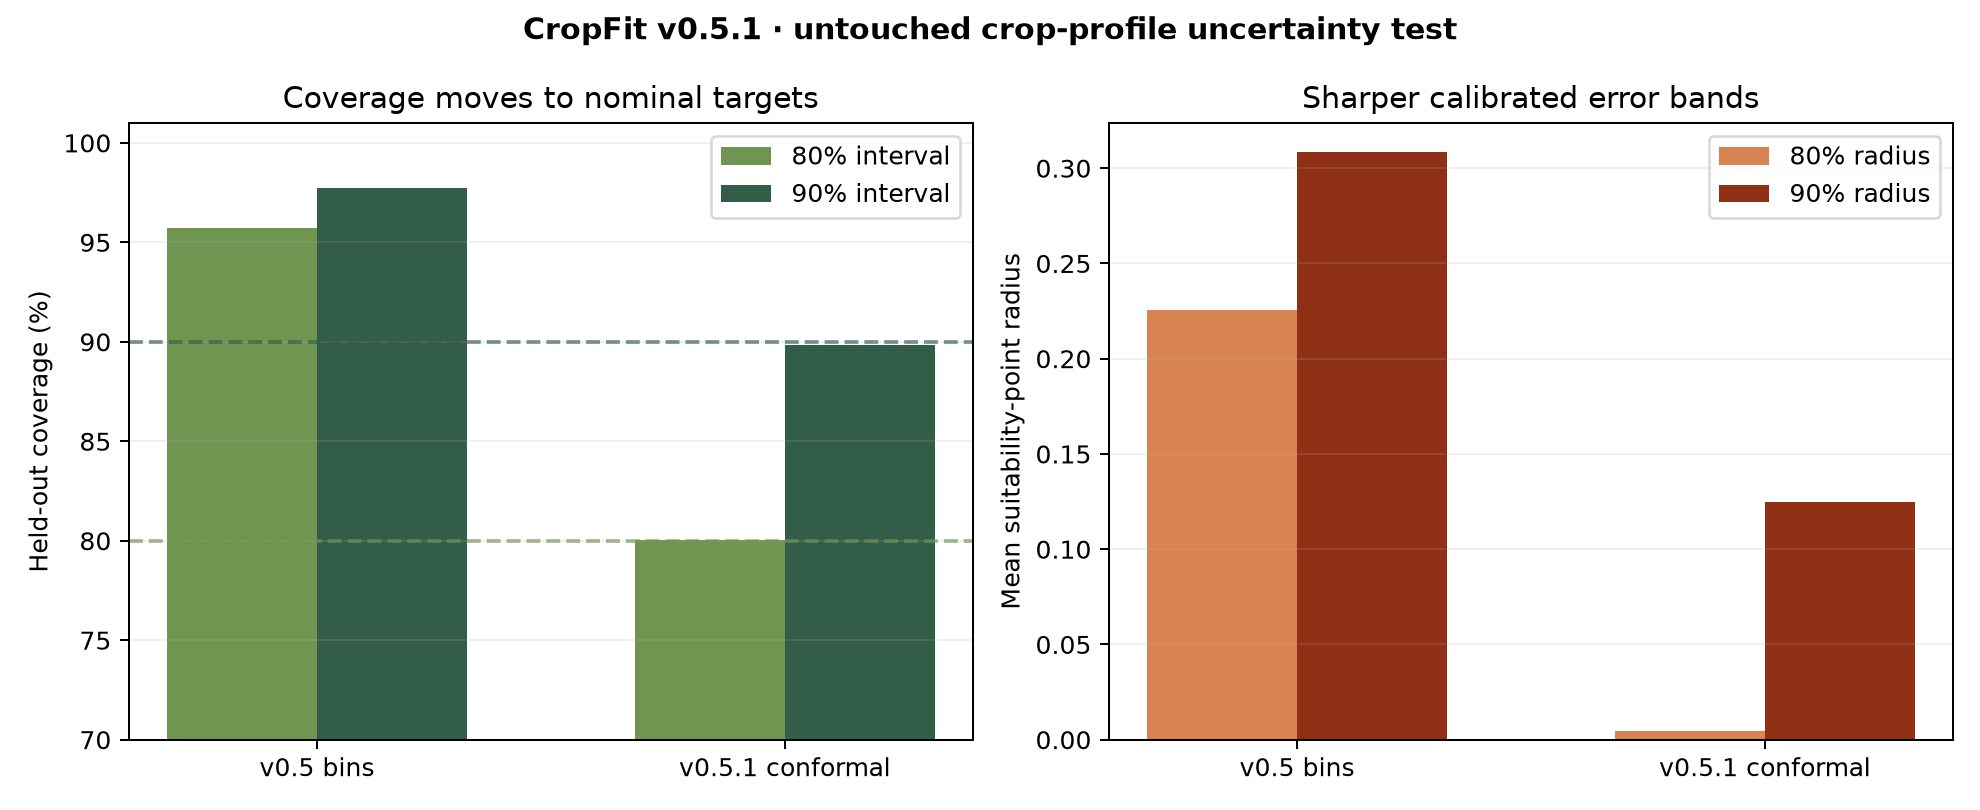
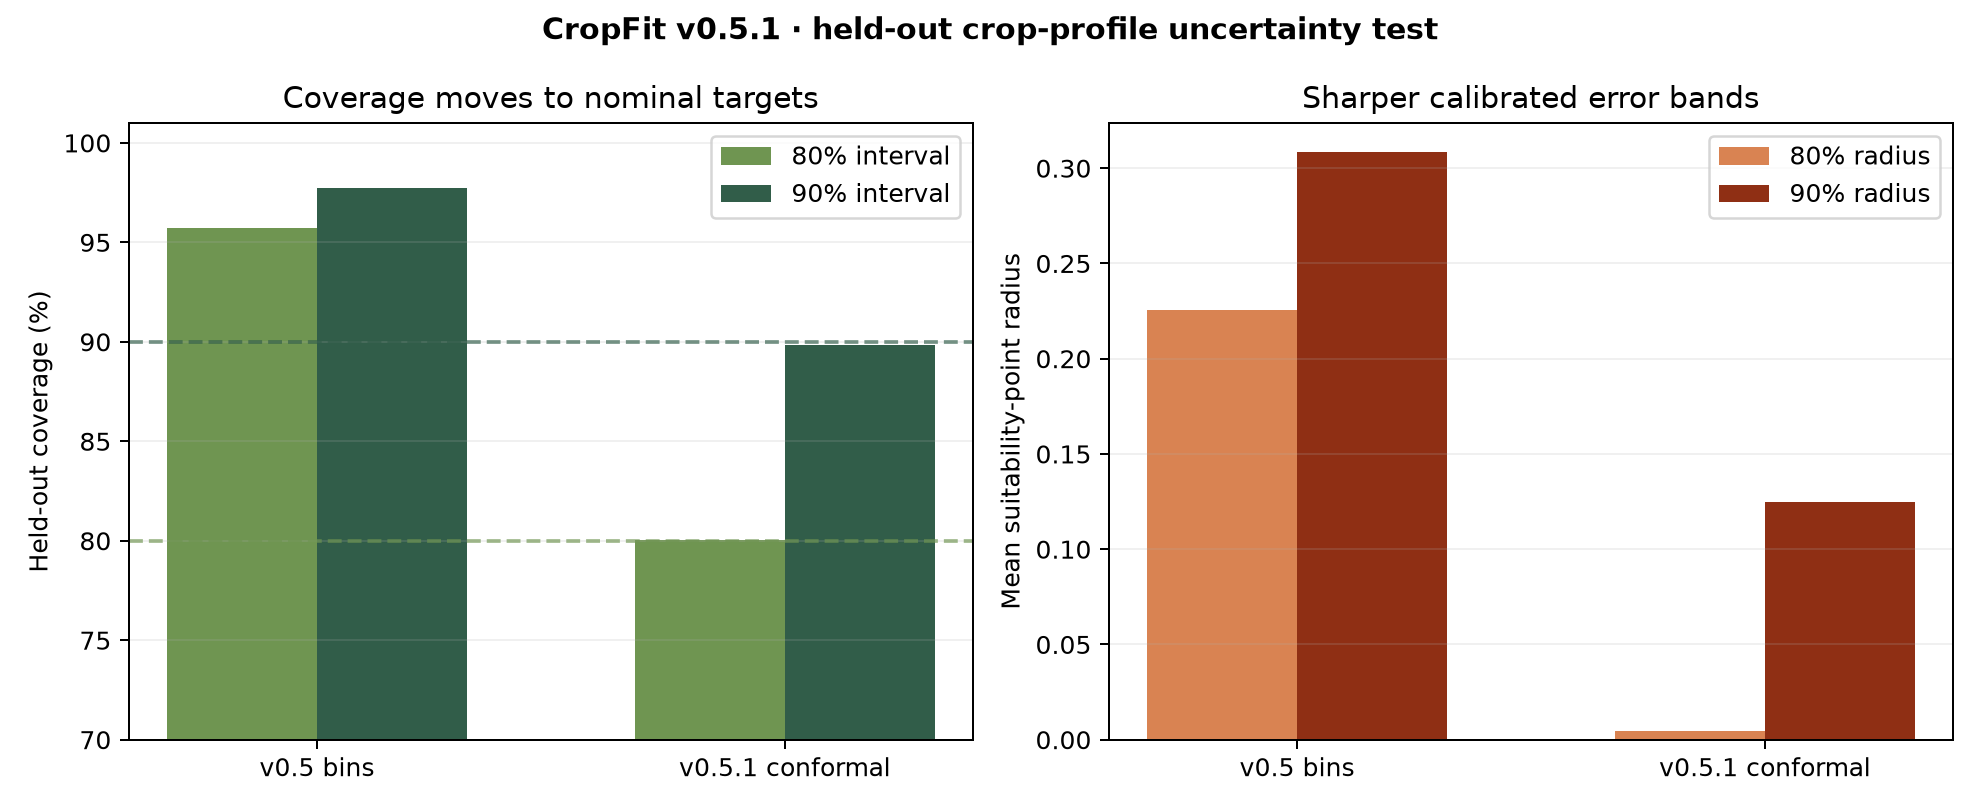
test(cropfit): stress calibration seeds

Changed region(s): [[0.2465, 0.0, 0.7394, 0.0617]]

diff --git a/machine-learning/cropfit/uncertainty_validation.py b/machine-learning/cropfit/uncertainty_validation.py
@@ -7,16 +7,18 @@ from pathlib import Path
 import joblib
 import matplotlib.pyplot as plt
 import numpy as np
+from sklearn.ensemble import RandomForestRegressor
 from sklearn.model_selection import GroupShuffleSplit
 
 from .profiles import load_profiles
-from .training import generate_examples
+from .training import TREE_STD_FLOOR, conformal_quantile, generate_examples
 
 
 LEGACY_BINS = (
     (0, .01, 0.0, 0.0), (.01, 2, .5355, .7941), (2, 5, 1.574, 2.0919),
     (5, 10, 3.8241, 5.0367),
 )
+ROBUSTNESS_SEEDS = list(range(20261201, 20261206))
 
 
 def radii(metadata: dict, tree_std: np.ndarray) -> tuple[np.ndarray, np.ndarray]:
@@ -49,17 +51,24 @@ def api_round(values: np.ndarray) -> np.ndarray:
     return np.ceil(values * 1000) / 1000
 
 
+def split_indices(x: np.ndarray, y: np.ndarray, groups: np.ndarray, seed: int) -> tuple[np.ndarray, np.ndarray, np.ndarray]:
+    train_validation, test = next(GroupShuffleSplit(n_splits=1, test_size=.2, random_state=seed).split(x, y, groups))
+    inner_groups = groups[train_validation]
+    inner_train, inner_validation = next(GroupShuffleSplit(n_splits=1, test_size=.15, random_state=seed + 1).split(x[train_validation], y[train_validation], inner_groups))
+    return train_validation[inner_train], train_validation[inner_validation], test
+
+
+def errors_and_std(model, x: np.ndarray, y: np.ndarray, indices: np.ndarray) -> tuple[np.ndarray, np.ndarray]:
+    trees = np.asarray([tree.predict(x[indices]) for tree in model.estimators_])
+    return np.abs(trees.mean(axis=0) - y[indices]), trees.std(axis=0)
+
+
 def evaluate(artifact: Path, profiles_path: Path, samples_per_crop: int, seed: int) -> dict:
     bundle = joblib.load(artifact)
     model, metadata = bundle["model"], bundle["metadata"]
     x, y, groups = generate_examples(load_profiles(profiles_path), samples_per_crop, seed)
-    train_validation, test = next(GroupShuffleSplit(n_splits=1, test_size=.2, random_state=seed).split(x, y, groups))
-    inner_groups = groups[train_validation]
-    _, inner_validation = next(GroupShuffleSplit(n_splits=1, test_size=.15, random_state=seed + 1).split(x[train_validation], y[train_validation], inner_groups))
-    validation = train_validation[inner_validation]
-    trees = np.asarray([tree.predict(x[test]) for tree in model.estimators_])
-    errors = np.abs(trees.mean(axis=0) - y[test])
-    tree_std = trees.std(axis=0)
+    _, validation, test = split_indices(x, y, groups, seed)
+    errors, tree_std = errors_and_std(model, x, y, test)
     candidate_radii = radii(metadata, tree_std)
     unrounded_candidate = metrics(errors, *candidate_radii)
     candidate = metrics(errors, *(api_round(item) for item in candidate_radii))
@@ -82,7 +91,7 @@ def evaluate(artifact: Path, profiles_path: Path, samples_per_crop: int, seed: i
             "seed": seed, "samplesPerCrop": samples_per_crop,
             "validationExamples": len(validation), "validationProfiles": len(np.unique(groups[validation])),
             "testExamples": len(test), "testProfiles": len(np.unique(groups[test])),
-            "policy": "Calibration uses validation crop profiles; comparison is evaluated once on untouched crop profiles.",
+            "policy": "Calibration uses validation crop profiles; comparison uses held-out crop profiles excluded from estimator fitting and calibration.",
         },
         "legacyV05": legacy,
         "unroundedCandidate": unrounded_candidate,
@@ -100,6 +109,58 @@ def evaluate(artifact: Path, profiles_path: Path, samples_per_crop: int, seed: i
             "p90": np.quantile(profile_coverages[:, 1], [0, .1, .25, .5, .75, .9, 1]).round(4).tolist(),
             "note": "Split conformal guarantees marginal, not per-profile, coverage.",
         },
+        "singleSplitGate": gate,
+    }
+
+
+def robustness(profiles_path: Path, samples_per_crop: int, seeds: list[int], estimators: int) -> dict:
+    profiles = load_profiles(profiles_path)
+    results = []
+    for seed in seeds:
+        x, y, groups = generate_examples(profiles, samples_per_crop, seed)
+        train, validation, test = split_indices(x, y, groups, seed)
+        model = RandomForestRegressor(n_estimators=estimators, min_samples_leaf=1, max_features=1.0, n_jobs=-1, random_state=seed)
+        model.fit(x[train], y[train])
+        validation_errors, validation_std = errors_and_std(model, x, y, validation)
+        test_errors, test_std = errors_and_std(model, x, y, test)
+        normalized = validation_errors / (validation_std + TREE_STD_FLOOR)
+        quantile80 = conformal_quantile(normalized, .8)
+        quantile90 = conformal_quantile(normalized, .9)
+        candidate = metrics(
+            test_errors,
+            api_round(quantile80 * (test_std + TREE_STD_FLOOR)),
+            api_round(quantile90 * (test_std + TREE_STD_FLOOR)),
+        )
+        legacy = metrics(test_errors, *legacy_radii(test_std))
+        passed = (
+            .77 <= candidate["coverage80"] <= .83
+            and .87 <= candidate["coverage90"] <= .93
+            and candidate["meanRadius90"] < legacy["meanRadius90"]
+        )
+        results.append({
+            "seed": seed, "validationProfiles": len(np.unique(groups[validation])), "testProfiles": len(np.unique(groups[test])),
+            "legacyV05": legacy, "candidate": candidate,
+            "meanRadius90ReductionPercent": round(100 * (1 - candidate["meanRadius90"] / legacy["meanRadius90"]), 2),
+            "passed": passed,
+        })
+        print(json.dumps(results[-1]), flush=True)
+    gate = {
+        "passed": all(item["passed"] for item in results),
+        "rule": "On every frozen seed, coverage must be within 3 points of 80% and 90%, and mean 90% radius must be narrower than v0.5.",
+    }
+    return {
+        "protocol": {
+            "seeds": seeds, "samplesPerCrop": samples_per_crop, "estimators": estimators,
+            "split": "Fresh grouped train/validation/test crop-profile splits per seed; calibration never uses the test profiles.",
+            "declaredGate": gate["rule"],
+        },
+        "results": results,
+        "summary": {
+            "wins": sum(item["passed"] for item in results), "seeds": len(results),
+            "meanCoverage80": round(float(np.mean([item["candidate"]["coverage80"] for item in results])), 4),
+            "meanCoverage90": round(float(np.mean([item["candidate"]["coverage90"] for item in results])), 4),
+            "meanRadius90ReductionPercent": round(float(np.mean([item["meanRadius90ReductionPercent"] for item in results])), 2),
+        },
         "gate": gate,
     }
 
@@ -108,11 +169,16 @@ def markdown(report: dict) -> str:
     legacy, candidate, improvement = report["legacyV05"], report["candidate"], report["improvement"]
     return "\n".join([
         "# CropFit uncertainty calibration v0.5.1", "",
-        "Calibration is fit only on validation crop profiles. This report compares methods on the untouched crop-profile test split; it measures fidelity to the EcoCrop screening teacher, not observed farm yield.", "",
+        "Calibration is fit only on validation crop profiles. This report compares methods on held-out crop-profile test splits; it measures fidelity to the EcoCrop screening teacher, not observed farm yield.", "",
         "| Method | 80% coverage | 90% coverage | Mean 80% radius | Mean 90% radius |", "|---|---:|---:|---:|---:|",
         f'| v0.5 disagreement bins | {legacy["coverage80"]:.1%} | {legacy["coverage90"]:.1%} | {legacy["meanRadius80"]:.3f} | {legacy["meanRadius90"]:.3f} |',
         f'| v0.5.1 normalized conformal | {candidate["coverage80"]:.1%} | {candidate["coverage90"]:.1%} | {candidate["meanRadius80"]:.3f} | {candidate["meanRadius90"]:.3f} |', "",
-        f'The candidate reduces mean 90% radius by **{improvement["meanRadius90ReductionPercent"]:.1f}%** while bringing both marginal coverages to their nominal targets. Gate: **{"PASS" if report["gate"]["passed"] else "NOT PASSED"}**.', "",
+        f'The production-seed candidate reduces mean 90% radius by **{improvement["meanRadius90ReductionPercent"]:.1f}%** while bringing both marginal coverages to their nominal targets. Single-split gate: **{"PASS" if report["singleSplitGate"]["passed"] else "NOT PASSED"}**.', "",
+        "## Frozen five-seed robustness", "",
+        "The method and gate were frozen before evaluating five new seeds (20261201–20261205). Every seed requires both coverages within three percentage points of nominal and a narrower mean 90% radius than v0.5.", "",
+        "| Seed | 80% coverage | 90% coverage | v0.5 radius90 | v0.5.1 radius90 | Reduction |", "|---:|---:|---:|---:|---:|---:|",
+        *[f'| {item["seed"]} | {item["candidate"]["coverage80"]:.1%} | {item["candidate"]["coverage90"]:.1%} | {item["legacyV05"]["meanRadius90"]:.3f} | {item["candidate"]["meanRadius90"]:.3f} | {item["meanRadius90ReductionPercent"]:.1f}% |' for item in report["robustness"]["results"]],
+        "", f'Robustness wins: **{report["robustness"]["summary"]["wins"]}/{report["robustness"]["summary"]["seeds"]}**. Overall gate: **{"PASS" if report["gate"]["passed"] else "NOT PASSED"}**.', "",
         "Intervals are marginal across unseen crop profiles. They are not per-species guarantees, yield intervals, or property-investment confidence.", "",
     ])
 
@@ -128,7 +194,23 @@ def plot(report: dict, output: Path) -> None:
     axes[1].bar(x - width / 2, [report["legacyV05"]["meanRadius80"], report["candidate"]["meanRadius80"]], width, label="80% radius", color="#d98352")
     axes[1].bar(x + width / 2, [report["legacyV05"]["meanRadius90"], report["candidate"]["meanRadius90"]], width, label="90% radius", color="#8f2f14")
     axes[1].set(xticks=x, xticklabels=labels, ylabel="Mean suitability-point radius", title="Sharper calibrated error bands"); axes[1].legend(); axes[1].grid(axis="y", alpha=.18)
-    figure.suptitle("CropFit v0.5.1 · untouched crop-profile uncertainty test", fontweight="bold")
+    figure.suptitle("CropFit v0.5.1 · held-out crop-profile uncertainty test", fontweight="bold")
+    figure.tight_layout(); figure.savefig(output, dpi=180); plt.close(figure)
+
+
+def robustness_plot(report: dict, output: Path) -> None:
+    results = report["robustness"]["results"]
+    labels = [str(item["seed"])[-2:] for item in results]
+    x = np.arange(len(results)); width = .34
+    figure, axes = plt.subplots(1, 2, figsize=(12, 4.7))
+    axes[0].plot(x, [item["candidate"]["coverage80"] * 100 for item in results], marker="o", linewidth=2.5, color="#6f9551", label="80% interval")
+    axes[0].plot(x, [item["candidate"]["coverage90"] * 100 for item in results], marker="o", linewidth=2.5, color="#315d49", label="90% interval")
+    axes[0].axhline(80, color="#6f9551", linestyle="--", alpha=.6); axes[0].axhline(90, color="#315d49", linestyle="--", alpha=.6)
+    axes[0].set(xticks=x, xticklabels=labels, ylim=(75, 94), xlabel="frozen seed suffix", ylabel="Held-out coverage (%)", title="Nominal coverage holds on every seed"); axes[0].legend(); axes[0].grid(alpha=.18)
+    axes[1].bar(x - width / 2, [item["legacyV05"]["meanRadius90"] for item in results], width, color="#d98352", label="v0.5 bins")
+    axes[1].bar(x + width / 2, [item["candidate"]["meanRadius90"] for item in results], width, color="#315d49", label="v0.5.1 conformal")
+    axes[1].set(xticks=x, xticklabels=labels, xlabel="frozen seed suffix", ylabel="Mean 90% radius", title="Sharper bands on all five splits"); axes[1].legend(); axes[1].grid(axis="y", alpha=.18)
+    figure.suptitle("CropFit uncertainty robustness · 5/5 frozen gates pass", fontweight="bold")
     figure.tight_layout(); figure.savefig(output, dpi=180); plt.close(figure)
 
 
@@ -139,14 +221,23 @@ def main() -> None:
     parser.add_argument("--profiles", type=Path, default=root / "data/raw/ecocrop.csv")
     parser.add_argument("--output", type=Path, default=root / "evaluation/uncertainty-validation-v0.5.1.json")
     parser.add_argument("--plot", type=Path, default=root / "evaluation/uncertainty-validation-v0.5.1.png")
+    parser.add_argument("--robustness-plot", type=Path, default=root / "evaluation/uncertainty-robustness-v0.5.1.png")
     parser.add_argument("--samples-per-crop", type=int, default=72)
     parser.add_argument("--seed", type=int, default=20261114)
+    parser.add_argument("--robustness-seeds", type=int, nargs="+", default=ROBUSTNESS_SEEDS)
+    parser.add_argument("--estimators", type=int, default=120)
     args = parser.parse_args()
     report = evaluate(args.artifact, args.profiles, args.samples_per_crop, args.seed)
+    report["robustness"] = robustness(args.profiles, args.samples_per_crop, args.robustness_seeds, args.estimators)
+    report["gate"] = {
+        "passed": report["singleSplitGate"]["passed"] and report["robustness"]["gate"]["passed"],
+        "rule": "Production-seed and frozen five-seed robustness gates must both pass.",
+    }
     args.output.write_text(json.dumps(report, indent=2) + "\n")
     args.output.with_suffix(".md").write_text(markdown(report))
     plot(report, args.plot)
-    print(json.dumps({"gate": report["gate"], "candidate": report["candidate"], "improvement": report["improvement"]}, indent=2))
+    robustness_plot(report, args.robustness_plot)
+    print(json.dumps({"gate": report["gate"], "candidate": report["candidate"], "improvement": report["improvement"], "robustness": report["robustness"]["summary"]}, indent=2))
 
 
 if __name__ == "__main__":

diff --git a/machine-learning/cropfit/verify_inference.py b/machine-learning/cropfit/verify_inference.py
@@ -106,6 +106,13 @@ def verify(artifact: Path, profiles: Path) -> None:
         assert recency_report["finalTest"]["spearmanDeltaBootstrap95"][0] > 0
         assert any(item["spearmanDelta"] < 0 for item in recency_report["perYearFinalTest"])
 
+    uncertainty_validation = artifact.parents[1] / "evaluation/uncertainty-validation-v0.5.1.json"
+    if uncertainty_validation.exists():
+        uncertainty_report = json.loads(uncertainty_validation.read_text())
+        assert uncertainty_report["gate"]["passed"]
+        assert uncertainty_report["robustness"]["gate"]["passed"]
+        assert uncertainty_report["robustness"]["summary"]["wins"] == uncertainty_report["robustness"]["summary"]["seeds"] == 5
+
     from .trained_api import PredictionRequest, predict as api_predict
 
     valid_climate = climate(20.0)

diff --git a/machine-learning/evaluation/uncertainty-validation-v0.5.1.md b/machine-learning/evaluation/uncertainty-validation-v0.5.1.md
@@ -1,12 +1,26 @@
 # CropFit uncertainty calibration v0.5.1
 
-Calibration is fit only on validation crop profiles. This report compares methods on the untouched crop-profile test split; it measures fidelity to the EcoCrop screening teacher, not observed farm yield.
+Calibration is fit only on validation crop profiles. This report compares methods on held-out crop-profile test splits; it measures fidelity to the EcoCrop screening teacher, not observed farm yield.
 
 | Method | 80% coverage | 90% coverage | Mean 80% radius | Mean 90% radius |
 |---|---:|---:|---:|---:|
 | v0.5 disagreement bins | 95.7% | 97.7% | 0.226 | 0.308 |
 | v0.5.1 normalized conformal | 80.0% | 89.8% | 0.005 | 0.125 |
 
-The candidate reduces mean 90% radius by **59.5%** while bringing both marginal coverages to their nominal targets. Gate: **PASS**.
+The production-seed candidate reduces mean 90% radius by **59.5%** while bringing both marginal coverages to their nominal targets. Single-split gate: **PASS**.
+
+## Frozen five-seed robustness
+
+The method and gate were frozen before evaluating five new seeds (20261201–20261205). Every seed requires both coverages within three percentage points of nominal and a narrower mean 90% radius than v0.5.
+
+| Seed | 80% coverage | 90% coverage | v0.5 radius90 | v0.5.1 radius90 | Reduction |
+|---:|---:|---:|---:|---:|---:|
+| 20261201 | 79.8% | 89.7% | 0.312 | 0.129 | 58.6% |
+| 20261202 | 80.3% | 90.2% | 0.298 | 0.122 | 59.1% |
+| 20261203 | 79.6% | 90.0% | 0.316 | 0.131 | 58.5% |
+| 20261204 | 79.1% | 89.6% | 0.323 | 0.137 | 57.5% |
+| 20261205 | 79.6% | 90.4% | 0.312 | 0.138 | 55.9% |
+
+Robustness wins: **5/5**. Overall gate: **PASS**.
 
 Intervals are marginal across unseen crop profiles. They are not per-species guarantees, yield intervals, or property-investment confidence.

diff --git a/machine-learning/MODEL_CARD.md b/machine-learning/MODEL_CARD.md
@@ -28,6 +28,12 @@ suitability points (59.6%). These are marginal EcoCrop-teacher fidelity bands,
 not per-species or observed-yield guarantees. See
 `evaluation/uncertainty-validation-v0.5.1.md`.
 
+With the method and acceptance rule frozen, five new grouped train/validation/
+test seeds all passed. Mean held-out coverage was 79.67% and 89.98%; every seed
+produced a narrower 90% radius than v0.5, with a mean reduction of 57.92%.
+This robustness sweep strengthens the marginal calibration claim without
+changing the limits above.
+
 The CUDA XGBoost candidate completed 500 rounds with a cosine learning-rate
 schedule from 0.08 to 0.005. It was not promoted because held-out-profile MAE
 was worse (0.6395). The committed diagnostics are

diff --git a/machine-learning/README.md b/machine-learning/README.md
@@ -98,8 +98,9 @@ probability or observed-yield confidence.
 npm run ml:evaluate:uncertainty
 ```
 
-This reproduces the untouched-profile comparison, its machine-readable report,
-and the presentation chart under `machine-learning/evaluation/`.
+This reproduces the production-seed comparison, a frozen five-seed robustness
+sweep, their machine-readable report, and two presentation charts under
+`machine-learning/evaluation/`.
 
 For corn, soybeans, and wheat, the response may also include
 `observedYieldEvidence`: the nearest USDA reporting county within 100 km, its
